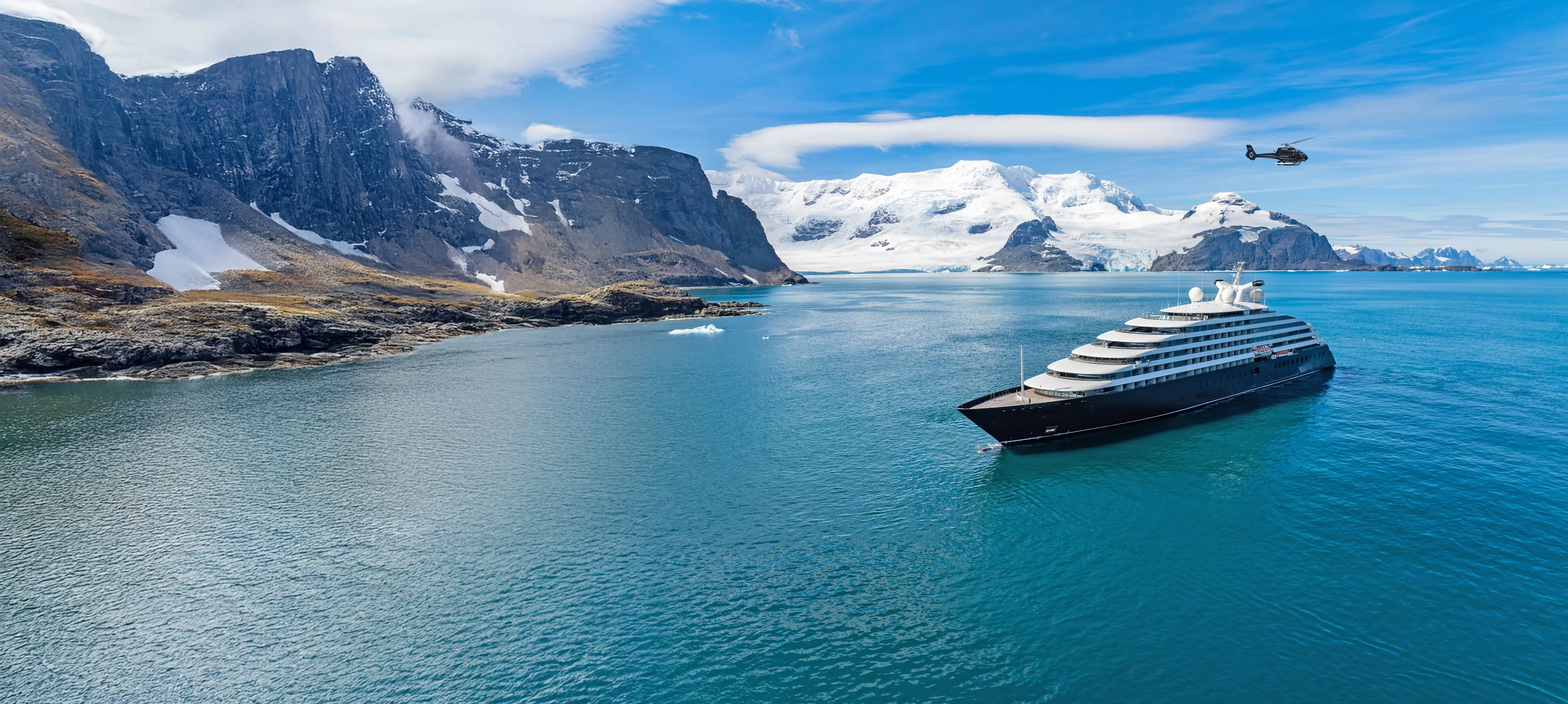
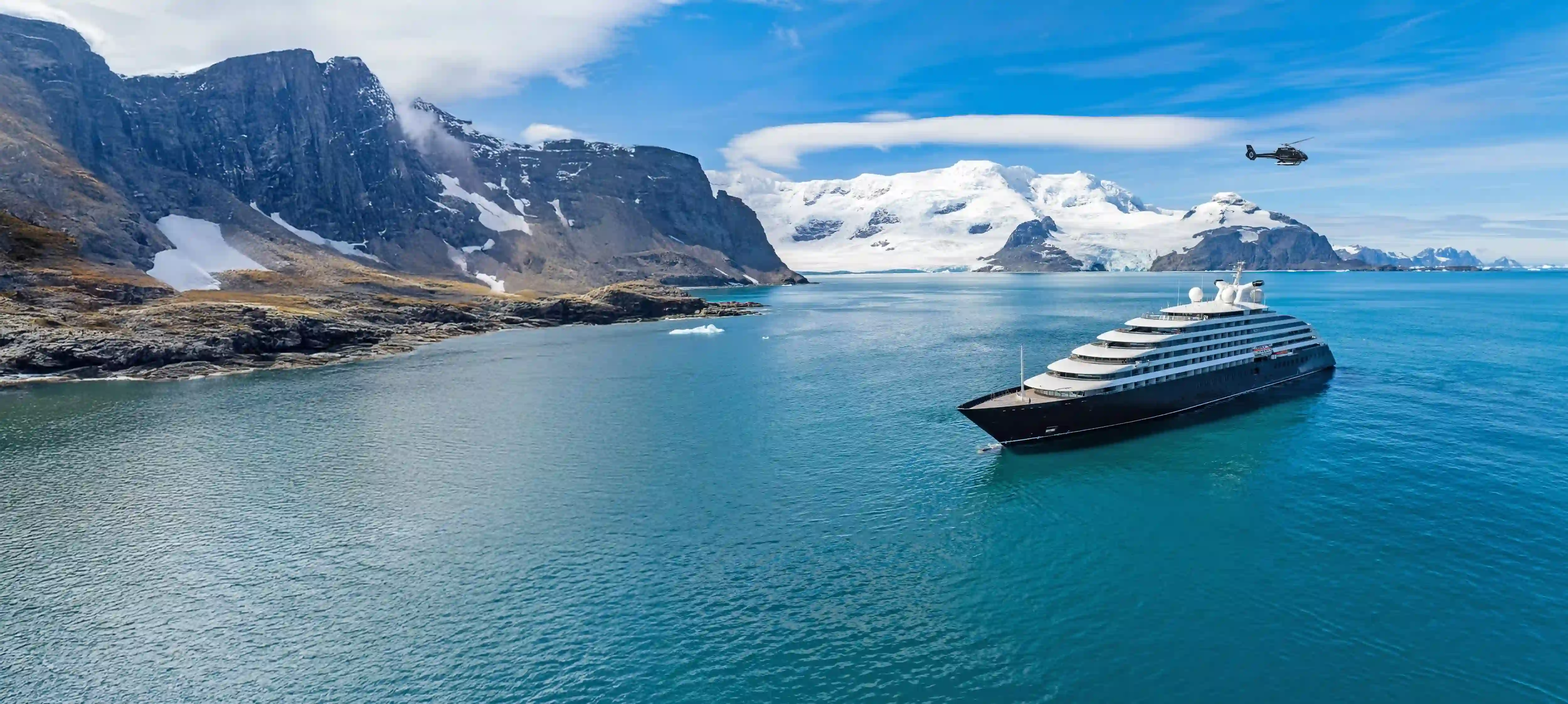
image compress

diff --git a/src/pages/EmeraldAzzurraVsEmeraldSakara/EmeraldAzzurraVsEmeraldSakara.jsx b/src/pages/EmeraldAzzurraVsEmeraldSakara/EmeraldAzzurraVsEmeraldSakara.jsx
@@ -5,19 +5,19 @@
 import React, { useState, useEffect } from "react";
 import "./EmeraldAzzurraVsEmeraldSakara.css";
 import Navbar from "../../components/Navbar/Navbar";
-import EmeraldAzzurraVsEmeraldSakara1 from "../../assets/EmeraldAzzurraVsEmeraldSakara/EmeraldAzzurraVsEmeraldSakara1.jpg";
-import EmeraldAzzurraVsEmeraldSakara2 from "../../assets/EmeraldAzzurraVsEmeraldSakara/EmeraldAzzurraVsEmeraldSakara2.jpg";
-import EmeraldAzzurraVsEmeraldSakara3 from "../../assets/EmeraldAzzurraVsEmeraldSakara/EmeraldAzzurraVsEmeraldSakara3.jpg";
-import EmeraldAzzurraVsEmeraldSakara4 from "../../assets/EmeraldAzzurraVsEmeraldSakara/EmeraldAzzurraVsEmeraldSakara4.jpg";
+import EmeraldAzzurraVsEmeraldSakara1 from "../../assets/EmeraldAzzurraVsEmeraldSakara/EmeraldAzzurraVsEmeraldSakara1.webp";
+import EmeraldAzzurraVsEmeraldSakara2 from "../../assets/EmeraldAzzurraVsEmeraldSakara/EmeraldAzzurraVsEmeraldSakara2.webp";
+import EmeraldAzzurraVsEmeraldSakara3 from "../../assets/EmeraldAzzurraVsEmeraldSakara/EmeraldAzzurraVsEmeraldSakara3.webp";
+import EmeraldAzzurraVsEmeraldSakara4 from "../../assets/EmeraldAzzurraVsEmeraldSakara/EmeraldAzzurraVsEmeraldSakara4.webp";
 import myImage from "../../assets/image.jpg";
 import { Helmet } from "react-helmet-async";
-import ImageGellery1 from "../../assets/EmeraldAzzurraVsEmeraldSakara/ImageGellery1.jpg";
-import ImageGellery2 from "../../assets/EmeraldAzzurraVsEmeraldSakara/ImageGellery2.jpg";
-import ImageGellery3 from "../../assets/EmeraldAzzurraVsEmeraldSakara/ImageGellery3.jpg";
-import ImageGellery4 from "../../assets/EmeraldAzzurraVsEmeraldSakara/ImageGellery4.jpg";
-import ImageGellery5 from "../../assets/EmeraldAzzurraVsEmeraldSakara/ImageGellery5.jpg";
-import EmeraldAzzurraImg from "../../assets/EmeraldAzzurraVsEmeraldSakara/Emerald Azzurra.jpg";
-import EmeraldSakaraImg from "../../assets/EmeraldAzzurraVsEmeraldSakara/Emerald Sakara.jpg";
+import ImageGellery1 from "../../assets/EmeraldAzzurraVsEmeraldSakara/ImageGellery1.webp";
+import ImageGellery2 from "../../assets/EmeraldAzzurraVsEmeraldSakara/ImageGellery2.webp";
+import ImageGellery3 from "../../assets/EmeraldAzzurraVsEmeraldSakara/ImageGellery3.webp";
+import ImageGellery4 from "../../assets/EmeraldAzzurraVsEmeraldSakara/ImageGellery4.webp";
+import ImageGellery5 from "../../assets/EmeraldAzzurraVsEmeraldSakara/ImageGellery5.webp";
+import EmeraldAzzurraImg from "../../assets/EmeraldAzzurraVsEmeraldSakara/Emerald Azzurra.webp";
+import EmeraldSakaraImg from "../../assets/EmeraldAzzurraVsEmeraldSakara/Emerald Sakara.webp";
 
 // Lucide React Icons
 import {
@@ -40,8 +40,6 @@ import {
   Activity as BsActivity,
   Award as BsAward,
   CalendarCheck as BsCalendarCheck,
-  Crown,
-  Gem,
   Sun,
   Waves,
   KeyRound,
@@ -756,7 +754,10 @@ const EmeraldAzzurraVsEmeraldSakara = () => {
                   { name: "Owner's Suite", icon: <CircleUser size={20} /> },
                   { name: "Yacht Suite", icon: <TbYacht size={20} /> },
                   { name: "Terrace Suite", icon: <Sun size={20} /> },
-                  { name: "Deluxe Balcony Suite", icon: <Sparkles size={20} /> },
+                  {
+                    name: "Deluxe Balcony Suite",
+                    icon: <Sparkles size={20} />,
+                  },
                   { name: "Balcony Suite", icon: <DoorOpen size={20} /> },
                   { name: "Oceanview Stateroom", icon: <Waves size={20} /> },
                 ].map((s, i) => (
@@ -966,7 +967,8 @@ const EmeraldAzzurraVsEmeraldSakara = () => {
             Why Work With Trips & Ships?
           </h2>
           <p className="Sakara_why_trips_intro">
-            Luxury yacht cruising is not a simple booking. Angela Hughes and the <br />
+            Luxury yacht cruising is not a simple booking. Angela Hughes and the{" "}
+            <br />
             Trips & Ships Luxury Travel team help clients make the right
             decision from the start.
           </p>

diff --git a/src/pages/ScenicVSSilversea/ScenicVSSilversea.jsx b/src/pages/ScenicVSSilversea/ScenicVSSilversea.jsx
@@ -1,4 +1,4 @@
-import React, { useState, useEffect } from "react";
+import React, { useState } from "react";
 import {
   Snowflake,
   Anchor,
@@ -17,20 +17,17 @@ import {
 } from "lucide-react";
 import Navbar from "../../components/Navbar/Navbar";
 import "../ScenicVSSilversea/ScenicVSSilversea.css";
-import scenisilver1 from "../../assets/scenic-vs-silversea-antarctica/scenisilver1.jpg";
-import scenisilver2 from "../../assets/scenic-vs-silversea-antarctica/scenisilver2.jpg";
-import scenisilver3 from "../../assets/scenic-vs-silversea-antarctica/scenisilver3.jpg";
-import valueHero from "../../assets/scenic-vs-silversea-antarctica/value_hero.jpg";
-import scenicValue from "../../assets/scenic-vs-silversea-antarctica/scenic_value.jpg";
-import silverseaValue from "../../assets/scenic-vs-silversea-antarctica/silversea_value.jpg";
+import valueHero from "../../assets/scenic-vs-silversea-antarctica/value_hero.webp";
+import scenicValue from "../../assets/scenic-vs-silversea-antarctica/scenic_value.webp";
+import silverseaValue from "../../assets/scenic-vs-silversea-antarctica/silversea_value.webp";
 import { Helmet } from "react-helmet-async";
-import scenicImage from "../../assets/scenic-vs-silversea-antarctica/SenicSilversea1.jpg";
-import silverseaImage from "../../assets/scenic-vs-silversea-antarctica/SenicSilversea2.jpg";
+import scenicImage from "../../assets/scenic-vs-silversea-antarctica/SenicSilversea1.webp";
+import silverseaImage from "../../assets/scenic-vs-silversea-antarctica/SenicSilversea2.webp";
 import myImage from "../../assets/image.jpg";
-import ScenicGallery1 from "../../assets/scenic-vs-silversea-antarctica/scenicGallery1.jpg";
-import ScenicGallery2 from "../../assets/scenic-vs-silversea-antarctica/scenicGallery2.jpg";
-import ScenicGallery3 from "../../assets/scenic-vs-silversea-antarctica/scenicGallery3.jpg";
-import ScenicGallery4 from "../../assets/scenic-vs-silversea-antarctica/scenicGallery4.jpg";
+import ScenicGallery1 from "../../assets/scenic-vs-silversea-antarctica/scenicGallery1.webp";
+import ScenicGallery2 from "../../assets/scenic-vs-silversea-antarctica/scenicGallery2.webp";
+import ScenicGallery3 from "../../assets/scenic-vs-silversea-antarctica/scenicGallery3.webp";
+import ScenicGallery4 from "../../assets/scenic-vs-silversea-antarctica/scenicGallery4.webp";
 
 const AntarcticaPage = () => {
   const [activeFaq, setActiveFaq] = useState(null);
@@ -102,7 +99,6 @@ const AntarcticaPage = () => {
     setActiveFaq(activeFaq === index ? null : index);
   };
   const [readMore, setReadMore] = useState(false);
-  const images = [scenisilver1, scenisilver2, scenisilver3];
 
   const schemaData = {
     "@context": "https://schema.org",
@@ -341,11 +337,13 @@ const AntarcticaPage = () => {
           </p>
 
           {/* This container expands when the button below is clicked */}
-          <div className={`senianta-hero-details ${readMore ? "expanded" : ""}`}>
+          <div
+            className={`senianta-hero-details ${readMore ? "expanded" : ""}`}
+          >
             <p className="senianta-hero-note">
               Two of the most commonly compared options are Scenic Luxury
-              Cruises & Tours and Silversea Cruises. Both operate at the
-              highest level of the market. Both provide access to Antarctica.
+              Cruises & Tours and Silversea Cruises. Both operate at the highest
+              level of the market. Both provide access to Antarctica.
             </p>
           </div>
 

diff --git a/src/pages/AntarcticaCruise/AntarcticaCruise.jsx b/src/pages/AntarcticaCruise/AntarcticaCruise.jsx
@@ -6,20 +6,20 @@ import "../AntarcticaCruise/AntarcticaCruise.css";
 import myImage from "../../assets/image.jpg";
 import { Award, Globe, Medal, Shield, Star } from "lucide-react";
 
-import AntaSilder1 from "../../assets/antarctica-cruise-cost/AntaSilder1.jpg";
-import AntaSilder2 from "../../assets/antarctica-cruise-cost/AntaSilder2.jpg";
-import AntaSilder3 from "../../assets/antarctica-cruise-cost/AntaSilder3.jpg";
-import AntaSilder4 from "../../assets/antarctica-cruise-cost/AntaSilder4.jpg";
-import AntaSilder5 from "../../assets/antarctica-cruise-cost/AntaSilder5.jpg";
-import AntaSilder6 from "../../assets/antarctica-cruise-cost/seal-on-antarctic-ice.png";
-import AntaSilder7 from "../../assets/antarctica-cruise-cost/AntaSilder7.jpg";
-import AntaSilder8 from "../../assets/antarctica-cruise-cost/AntaSilder8.png";
-import AntaSilder9 from "../../assets/antarctica-cruise-cost/AntaSilder9.png";
+import AntaSilder1 from "../../assets/antarctica-cruise-cost/AntaSilder1.webp";
+import AntaSilder2 from "../../assets/antarctica-cruise-cost/AntaSilder2.webp";
+import AntaSilder3 from "../../assets/antarctica-cruise-cost/AntaSilder3.webp";
+import AntaSilder4 from "../../assets/antarctica-cruise-cost/AntaSilder4.webp";
+import AntaSilder5 from "../../assets/antarctica-cruise-cost/AntaSilder5.webp";
+import AntaSilder6 from "../../assets/antarctica-cruise-cost/seal-on-antarctic-ice.webp";
+import AntaSilder7 from "../../assets/antarctica-cruise-cost/AntaSilder7.webp";
+import AntaSilder8 from "../../assets/antarctica-cruise-cost/AntaSilder8.webp";
+import AntaSilder9 from "../../assets/antarctica-cruise-cost/AntaSilder9.webp";
 
-import GalleryIceFields from "../../assets/antarctica-cruise-cost/antarctica-ice-fields.png";
-import GalleryIceberg from "../../assets/antarctica-cruise-cost/antarctica-iceberg-reflection.png";
-import GalleryPenguins from "../../assets/antarctica-cruise-cost/penguins-in-antarctica.png";
-import GalleryWhale from "../../assets/antarctica-cruise-cost/whale-diving-antarctica.png";
+import GalleryIceFields from "../../assets/antarctica-cruise-cost/antarctica-ice-fields.webp";
+import GalleryIceberg from "../../assets/antarctica-cruise-cost/antarctica-iceberg-reflection.webp";
+import GalleryPenguins from "../../assets/antarctica-cruise-cost/penguins-in-antarctica.webp";
+import GalleryWhale from "../../assets/antarctica-cruise-cost/whale-diving-antarctica.webp";
 
 const AntarcticaCostPage = () => {
   const [readMore, setReadMore] = useState(false);
@@ -655,7 +655,9 @@ const AntarcticaCostPage = () => {
       {/* ===== SECTION 8 — WHAT IMPACTS YOUR COST ===== */}
       <section className="anta_impacts_section">
         <div className="anta_impacts_inner">
-          <h2>What Impacts Your <br /> Antarctica Cost Most?</h2>
+          <h2>
+            What Impacts Your <br /> Antarctica Cost Most?
+          </h2>
 
           <div className="anta_expert_cards">
             <div className="anta_expert_card">
@@ -699,7 +701,9 @@ const AntarcticaCostPage = () => {
       {/* ===== SECTION 9 — WHY PRICES CHANGE QUICKLY ===== */}
       <section className="anta_pricing_section">
         <div className="anta_pricing_inner">
-          <h2>Why Antarctica Pricing <br /> Changes Quickly?</h2>
+          <h2>
+            Why Antarctica Pricing <br /> Changes Quickly?
+          </h2>
 
           <div className="anta_method_steps">
             <div className="anta_method_step">

diff --git a/src/pages/ScenicAntarctica/ScenicAntarctica.jsx b/src/pages/ScenicAntarctica/ScenicAntarctica.jsx
@@ -6,20 +6,20 @@ import Navbar from "../../components/Navbar/Navbar";
 import { useState, useEffect } from "react";
 import "../ScenicAntarctica/ScenicAntarctica.css";
 import myImage from "../../assets/image.jpg";
-import SecondPage1 from "../../assets/SecondPage/SecondPage1.jpg";
+import SecondPage1 from "../../assets/SecondPage/SecondPage1.webp";
 import SecondPage3 from "../../assets/SecondPage/SecondPage3.webp";
 import SecondPage4 from "../../assets/SecondPage/SecondPage4.webp";
 import SecondPage5 from "../../assets/SecondPage/SecondPage5.webp";
 import SecondPage6 from "../../assets/SecondPage/SecondPage6.webp";
 import SecondPage7 from "../../assets/SecondPage/SecondPage7.webp";
-import SecondPage8 from "../../assets/SecondPage/SecondPage8.jpg";
-import SecondPage9 from "../../assets/SecondPage/SecondPage9.jpg";
-import SecondPage10 from "../../assets/SecondPage/SecondPage10.jpg";
-import SuiteImg from "../../assets/SecondPage/Suite.jpg";
-import DiningImg from "../../assets/SecondPage/Dining.jpg";
-import BeveragesImg from "../../assets/SecondPage/Beverages.jpg";
-import GuidedImg from "../../assets/SecondPage/Guided.jpg";
-import OnboardImg from "../../assets/SecondPage/Onboard.jpg";
+import SecondPage8 from "../../assets/SecondPage/SecondPage8.webp";
+import SecondPage9 from "../../assets/SecondPage/SecondPage9.webp";
+import SecondPage10 from "../../assets/SecondPage/SecondPage10.webp";
+import SuiteImg from "../../assets/SecondPage/Suite.webp";
+import DiningImg from "../../assets/SecondPage/Dining.webp";
+import BeveragesImg from "../../assets/SecondPage/Beverages.webp";
+import GuidedImg from "../../assets/SecondPage/Guided.webp";
+import OnboardImg from "../../assets/SecondPage/Onboard.webp";
 
 function ScenicAntarctica() {
   const [current, setCurrent] = useState(0);
@@ -747,8 +747,9 @@ function ScenicAntarctica() {
             {faqData.map((faq, index) => (
               <div
                 key={index}
-                className={`Scenic-faq-item ${activeFaq === index ? "Scenic-active" : ""
-                  }`}
+                className={`Scenic-faq-item ${
+                  activeFaq === index ? "Scenic-active" : ""
+                }`}
                 onClick={() => toggleFaq(index)}
               >
                 <div className="Scenic-faq-question">

diff --git a/src/pages/ScenicVSSilversea/ScenicVSSilversea.css b/src/pages/ScenicVSSilversea/ScenicVSSilversea.css
@@ -64,15 +64,15 @@
 
   0%,
   100% {
-    background-image: url('../../assets/scenic-vs-silversea-antarctica/scenisilver1.jpg');
+    background-image: url('../../assets/scenic-vs-silversea-antarctica/scenisilver1.webp');
   }
 
   33% {
-    background-image: url('../../assets/scenic-vs-silversea-antarctica/scenisilver2.jpg');
+    background-image: url('../../assets/scenic-vs-silversea-antarctica/scenisilver2.webp');
   }
 
   66% {
-    background-image: url('../../assets/scenic-vs-silversea-antarctica/scenisilver3.jpg');
+    background-image: url('../../assets/scenic-vs-silversea-antarctica/scenisilver3.webp');
   }
 }
 
@@ -755,7 +755,7 @@
 .senianta-ship-exp-image {
   width: 100%;
   height: 480px;
-  background: url('../../assets//scenic-vs-silversea-antarctica/scenisilver4.jpg') center/cover no-repeat;
+  background: url('../../assets//scenic-vs-silversea-antarctica/scenisilver4.webp') center/cover no-repeat;
   border-radius: 20px;
   box-shadow: 0 20px 50px rgba(0, 0, 0, 0.15);
   order: 2;
